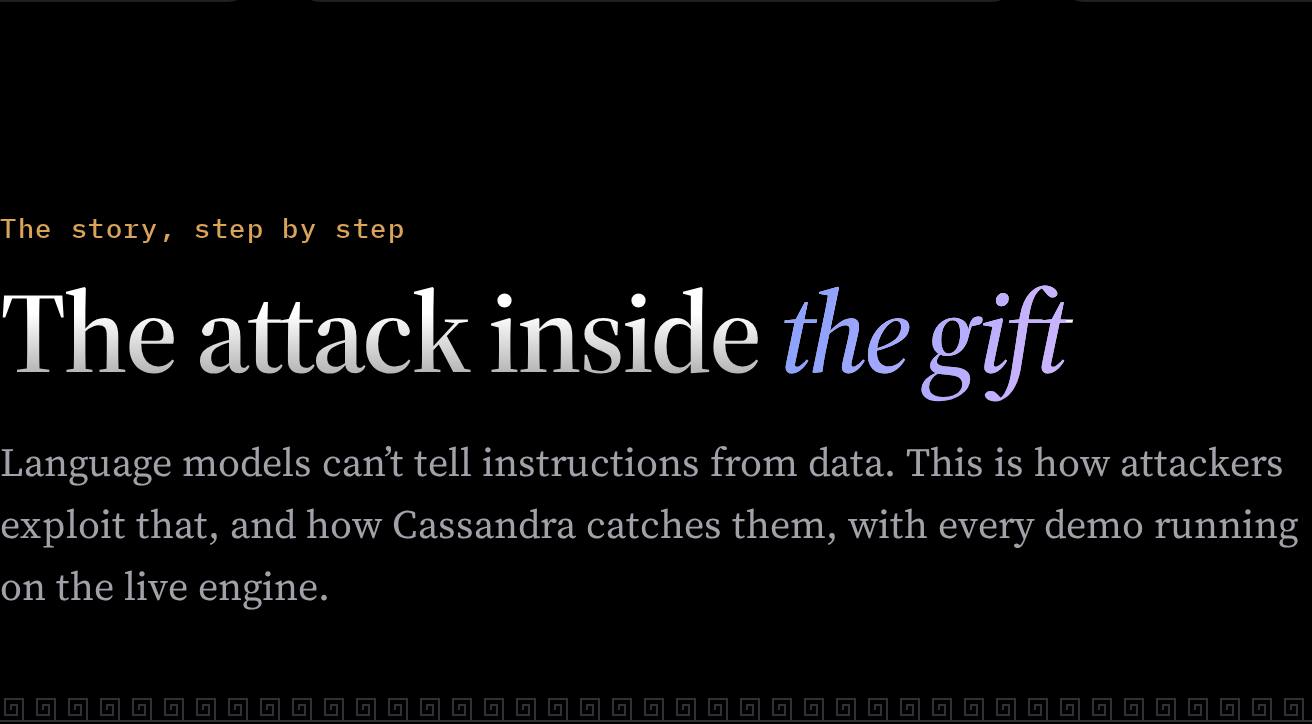
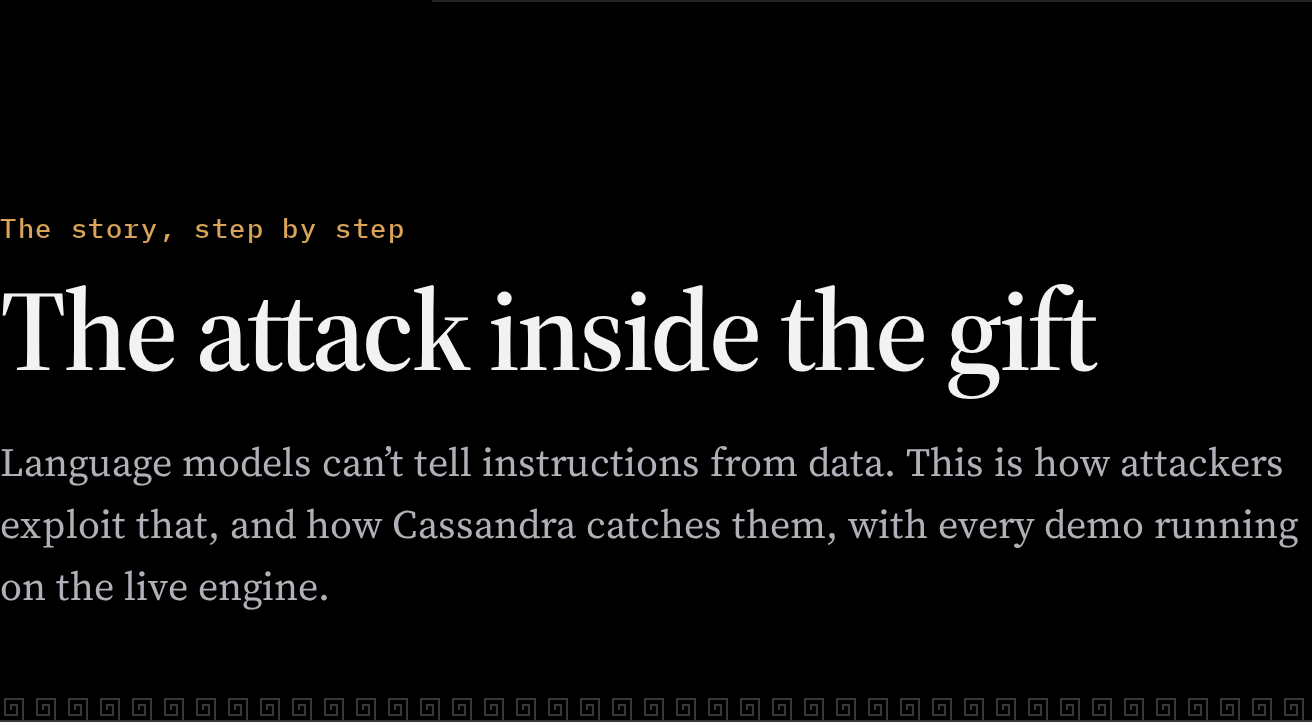
Document the de-templated design and refresh screenshots
Adds a version 4 section to the UI/UX design doc: the published lists of
AI-generated design tells the interface was checked against, what each
tell looked like here and what replaced it, and the colour-is-evidence
rule. Screenshots, the product tour and the README follow the new pages.

diff --git a/docs/UI_UX_DESIGN.md b/docs/UI_UX_DESIGN.md
@@ -22,46 +22,43 @@ the tools:
 ## Version 3: a product landing page, in true black
 
 The explainer taught well but opened like an essay: a visitor had to scroll before seeing the product
-do anything. The third iteration puts a product landing page in front of the story and moves the whole
-interface to a true-black theme.
+do anything. The third iteration put a product landing page in front of the story and moved the
+interface to a true-black theme, borrowing from the pages developers and security teams judge products
+by: a live product in the hero (Lakera, Raycast), a pure `#000` canvas with a white primary action
+(Vercel), and a code block showing how little integration takes (Resend).
 
-### Research
+It also borrowed their decoration: gradient headings, glows, a pointer-following spotlight, a stat-tile
+banner and a grid of icon cards. That turned out to be a mistake, and version 4 undid it.
 
-I studied the landing pages developers and security teams judge products by, and took one idea from
-each:
+## Version 4: removing the template tells
 
-| Site | What it does well | What CASSANDRA took |
+Reviewed cold, version 3 looked generated. So I checked it against published lists of the patterns
+that make a site read as AI-generated
+([Developers Digest](https://www.developersdigest.tech/blog/ai-design-slop-and-how-to-spot-it),
+[The Fountain Institute](https://www.thefountaininstitute.com/blog/signs-vibe-coded-ui),
+[21st.dev](https://21st.dev/blog/website-not-look-ai-generated)) and fixed every one that applied:
+
+| Tell | What version 3 had | What replaced it |
 |---|---|---|
-| [Lakera](https://www.lakera.ai) | A security product that proves itself with a live demo and hard numbers | The live scanner card in the hero and the proof strip under it |
-| [Linear](https://linear.app) | Near-black surfaces, hairline borders, restrained accent, headings with a soft gradient | Gradient headings, 1-pixel top highlights on cards, a pointer-following spotlight on the feature grid |
-| [Vercel](https://vercel.com) | Pure `#000` with high-contrast white, a white primary button | The true-black canvas and the white-on-black primary action |
-| [Resend](https://resend.com) | Leads with a code block showing how little code is needed | "Add it in a few lines": copyable Python, HTTP and CLI tabs |
-| [Raycast](https://www.raycast.com) | Shows the real product UI, not an illustration | The hero card is the real engine, not a mock-up |
-| [Stripe](https://stripe.com) | A closing band that turns attention into action | The dark call-to-action band leading to the arena |
+| Purple-blue gradient text, serif italic accent word | "*before*" in a blue-violet gradient; gradient-filled headings | Solid headings; hierarchy from size and weight only |
+| Glows and coloured shadows | Glows behind the hero, the product card and the buttons | None. Depth comes from 1px borders and contrast |
+| Badge above the headline | A pill reading "Prompt-injection firewall for LLM apps" | Removed; the headline says it |
+| Stat banner row | Four stat tiles under the hero | One sentence of evidence in the hero, with the numbers read live from the model card |
+| Identical feature cards with an icon on top | Six icon cards in a 3×2 grid | A specification list: a short name and one specific, checkable paragraph per capability |
+| Coloured stripe on blocks | Bronze or status-coloured left edges in four places | A tinted background, a dashed outline for hidden text, or plain hairlines |
+| Pills and rounded everything | Pill buttons, pill tabs, pill chips | 6px controls, 10px panels, 4px chips; underline tabs and navigation |
+| The same icon set everywhere | Lucide icons on every card and button | No icon library; words instead |
+| Decorative background | A masked grid pattern behind the hero | Plain black |
+| Numbered steps | "01–05" labels over each explainer section | Removed; the headings carry the story |
+| Generic copy | "Undoes obfuscation", "Runs anywhere" | Claims with numbers: five decoded payloads, four languages, 19,548 prompts, a 32-document batch |
 
-### Why true black
+The deeper change is one rule for colour: **colour is evidence**. The interface is ink on paper (white
+on black by default), and colour appears only where it means something: teal, amber and red for
+verdicts, bronze for hidden or decoded text. A visitor learns in seconds that anything coloured is
+something the engine found. The rules are written down in a `DESIGN.md` next to the frontend code,
+so later changes don't drift back to template defaults.
 
-- **It fits the subject.** A security tool reads as serious on black; the Aegean-blue accent and the
-  red, amber and teal verdicts stand out without shouting.
-- **It saves power.** On OLED screens `#000` pixels are switched off.
-- **Depth without shadows.** Shadows are invisible on black, so elevation comes from hairline borders,
-  a faint white gradient on cards, a 1-pixel highlight along their top edge, and soft coloured glows
-  behind the product card and the calls to action.
-
-The light theme was kept, but as a choice rather than a default: a button in the header switches
-themes and the browser remembers it. The status colours were re-validated against the new, darker card
-surface (`#0a0a0b`).
-
-### What the landing page is made of
-
-| Section | Purpose |
-|---|---|
-| Hero | One-line promise, two actions (scanner, arena), and the live scanner card cycling through four real inputs |
-| Proof strip | Recall, false-alarm rate, scan time and technique count, read from the model card |
-| Capabilities | Six one-sentence features with icons, lit by a spotlight that follows the pointer |
-| The story | The five-part explainer, unchanged, now framed as "how it works, step by step" |
-| For developers | Copyable integration code in three forms |
-| Closing band | The invitation to the arena |
+The light theme stays one click away, and the choice is remembered in the browser.
 
 ## Principles
 
@@ -72,8 +69,8 @@ surface (`#0a0a0b`).
    stat tiles say what the metric means, and the scoring formula is one click away.
 4. **Be honest about failure.** The explainer shows a prompt that beats both layers, and the report shows
    the weakest generalisation results.
-5. **Every element earns its place.** One accent colour, glows only behind the live product and the
-   calls to action, no emoji.
+5. **Every element earns its place.** No gradients, glows, emoji or icon-per-item; colour only where it
+   is evidence.
 
 ## Design system
 
@@ -90,16 +87,20 @@ All fonts are self-hosted, so the strict Content-Security-Policy allows no third
 ### Colour
 
 The default theme is true black with near-white text; the alternative is a warm paper background with
-ink-coloured text. Both use one accent (Aegean blue) for interaction and bronze for the myth motif and
-"hidden" things. Each theme has its own palette, chosen per theme rather than inverted.
+dark ink. Interaction (buttons, links, tabs, focus) uses ink rather than a brand hue; colour is reserved
+for verdicts and, in bronze, for hidden text. Each theme has its own palette, chosen per theme rather
+than inverted.
 
 | Token | Black theme (default) | Light theme |
 |---|---|---|
 | Page | `#000000` | `#fbfaf7` |
-| Card | `#0a0a0b` + a faint white gradient | `#ffffff` |
-| Hairline border | `#1f1f24` | `#e6e2d9` |
-| Text / secondary / muted | `#ededef` / `#a1a1aa` / `#7a7a84` | `#17191e` / `#545a66` / `#8b909a` |
-| Accent | `#8ea2ff` | `#2f4bd0` |
+| Panel | `#0c0c0e` | `#ffffff` |
+| Hairline border | `#232328` | `#e2ded4` |
+| Text / secondary / muted | `#f2f2f3` / `#b0b0b8` / `#8e8e98` | `#17191e` / `#4c525d` / `#626873` |
+| Interaction | the text colour | the text colour |
+| Hidden text | bronze `#d9a45a` | bronze `#9a6417` |
+
+Muted text was darkened or lightened until it clears WCAG AA (4.5:1) on both backgrounds.
 
 Verdict colours carry meaning, so they were **validated for colour-vision deficiency** with a palette
 checker (lightness band, chroma, perceptual distance under protanopia, deuteranopia and tritanopia,
@@ -119,7 +120,7 @@ protanopes. The final teal/amber/red passes, and because red and amber sit close
 
 A deliberately small set: a page layout, a card panel, a risk meter, a status badge, a verdict report
 and a findings table, plus the explainer's section and figure layout. Each has its own co-located
-stylesheet; the whole CSS is about 11 KB gzipped, with no CSS framework. Icons come from Lucide.
+stylesheet; the whole CSS is about 10 KB gzipped, with no CSS framework and no icon library.
 
 ### The signature details
 
@@ -140,7 +141,6 @@ Animation is used only where it explains something:
 | Verdict badge "stamping" in | The decision |
 | Typing indicator in the arena | The guardian is responding |
 | Inputs typed into the hero's scanner card | The product working on real attacks, one after another |
-| Spotlight following the pointer across the capability cards | Which feature is under the reader's attention |
 
 All motion is CSS, runs once when a section scrolls into view, and is **disabled entirely** when the
 operating system's reduced-motion setting is on (the pipeline then shows all stages immediately).

diff --git a/README.md b/README.md
@@ -139,12 +139,11 @@ argument for checking the model's output too.
 ## Screenshots
 
 ### Landing page
-A true-black product page: a hero that types real attacks into a live scanner card, the model's
-headline numbers, what the engine does, copyable integration code, and a call to try the arena.
+A true-black, monochrome product page where colour only ever marks evidence: a hero that types real
+attacks into a live scanner card, the evaluation in one sentence, what the engine does as a
+specification list, copyable integration code, and a call to try the arena.
 
-![Proof strip](assets/screenshots/landing-proof.png)
-
-![Capabilities, with the pointer-following spotlight](assets/screenshots/landing-capabilities.png)
+![Capabilities as a specification list](assets/screenshots/landing-capabilities.png)
 
 ![Integration snippets](assets/screenshots/landing-integrate.png)
 
@@ -229,7 +228,8 @@ A full page-by-page walkthrough is in the [Product tour](docs/PRODUCT_TOUR.md).
 
 | Removed or replaced | Reason |
 |---|---|
-| A dark "security console" dashboard | It looked like a generic template and explained nothing. Replaced by an interactive explainer that teaches the attack with live demos, and later a product landing page in a deliberate true-black design. |
+| A dark "security console" dashboard | It looked like a generic template and explained nothing. Replaced by an interactive explainer that teaches the attack with live demos, and later a product landing page in a deliberate, monochrome true-black design. |
+| Gradients, glows, icon cards and a stat banner | Checked against published lists of AI-generated design tells and removed; colour is now reserved for evidence. See [UI and UX design](docs/UI_UX_DESIGN.md#version-4-removing-the-template-tells). |
 | Hugging Face Spaces hosting | A public Space exposes its source. Replaced by Render, which builds from the private repository. |
 | Trusting the first `X-Forwarded-For` entry | That entry is written by the client, so anyone could dodge rate limits. Replaced by counting trusted proxy hops from the right. |
 | One rate-limit bucket behind a hosting proxy | Every visitor looked like the same IP. The deploy now declares its proxy hop. |
@@ -246,7 +246,7 @@ More on these decisions: [Design decisions & Q&A](docs/DESIGN_DECISIONS.md)
 |---|---|
 | Engine & API | Python 3.11, FastAPI, Pydantic, Uvicorn |
 | ML | scikit-learn (logistic regression on hashed n-grams), NumPy, SciPy; datasets: deepset, jailbreak-classification, SPML, Lakera Gandalf |
-| Frontend | React 19, TypeScript 7 (strict), Vite, CSS modules, Lucide icons, self-hosted Source Serif 4 and IBM Plex |
+| Frontend | React 19, TypeScript 7 (strict), Vite, CSS modules, self-hosted Source Serif 4 and IBM Plex |
 | Quality | pytest, mypy `--strict`, ruff, Vitest, Testing Library, oxlint, Prettier, Playwright |
 | Delivery | Docker (multi-stage, non-root, read-only), Docker Compose, GitHub Actions, GitHub Container Registry, Render |
 | Security | OWASP LLM Top 10, MITRE ATLAS, CodeQL, pip-audit, npm audit, Dependabot |

diff --git a/docs/PRODUCT_TOUR.md b/docs/PRODUCT_TOUR.md
@@ -12,7 +12,9 @@ it works, and show how to use it.
 
 ### Hero: the product, running
 
-The headline states the job in one line. Beside it, a scanner card types four real inputs one after
+The headline states the job in one line. Under it, one sentence gives the evaluation: how many held-out
+prompts, how many attacks were caught and how many harmless prompts were wrongly flagged, read live from
+the shipped model card so it can never drift from the evaluation. Beside it, a scanner card types four real inputs one after
 another (a direct override, a polite paraphrase, an attack hidden in base64 and a harmless history
 question) and shows the live verdict for each: the risk, both layers' scores, the matched techniques
 and anything that was decoded. All four are scanned in one call to the batch endpoint when the page
@@ -21,18 +23,11 @@ text appears at once instead of being typed.
 
 ![Landing hero](../assets/screenshots/landing-hero.png)
 
-### Proof strip
-
-Four numbers a reviewer can check: attacks caught and false alarms (read live from the shipped model
-card, so they cannot drift from the evaluation), scan time, and the number of mapped techniques.
-Below them, the frameworks the rules map to and the datasets the model was trained on.
-
-![Proof strip](../assets/screenshots/landing-proof.png)
-
 ### What it does
 
-Six capabilities, each in one sentence. Moving the pointer over the grid lights up the cards and their
-borders around it, the way Linear and Vercel do on their feature grids.
+Six capabilities as a specification list: a short name on the left, one specific paragraph on the
+right. Every claim can be checked: the number of decoded payloads, the languages the rules cover, the
+size of the training set, the paraphrase the classifier catches (with its real score), the batch size.
 
 ![Capabilities](../assets/screenshots/landing-capabilities.png)
 
@@ -45,9 +40,9 @@ is the real output of the command.
 
 ### Closing call to action
 
-The last band invites the visitor into the arena, with links to the scanner and this case study.
+The page ends with an invitation into the arena, with links to the scanner and this case study.
 
-![Closing band](../assets/screenshots/landing-band.png)
+![Closing section](../assets/screenshots/landing-closing.png)
 
 ## 2. The explainer
 

diff --git a/docs/ARCHITECTURE.md b/docs/ARCHITECTURE.md
@@ -101,10 +101,10 @@ Requests pass through, in order:
 | Area | Approach |
 |---|---|
 | Structure | Pages (landing and explainer, scanner, arena, report), landing sections, explainer sections with live demos, a small set of shared components, and tiny hooks for fetching, routing and scroll-triggered motion |
-| Styling | CSS modules co-located with each component, one token file for a true-black default theme and a light theme; no CSS framework, about 11 KB gzipped |
+| Styling | CSS modules co-located with each component, one token file for a true-black default theme and a light theme; no CSS framework, about 10 KB gzipped |
 | Data | Typed API client mirroring the backend's schemas; nothing on screen is hard-coded |
 | Motion | CSS transitions only; sections animate once when scrolled into view; all motion disabled under reduced-motion settings |
-| Dependencies | React, Lucide icons and self-hosted fonts at runtime; no router, state or component library |
+| Dependencies | React and self-hosted fonts at runtime; no router, state or component library |
 
 ## Deployment
 
